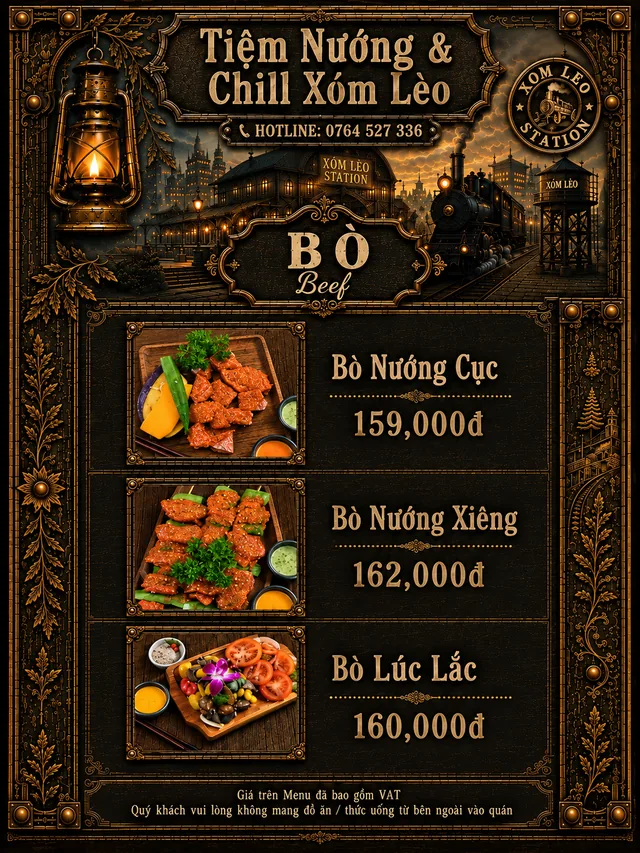
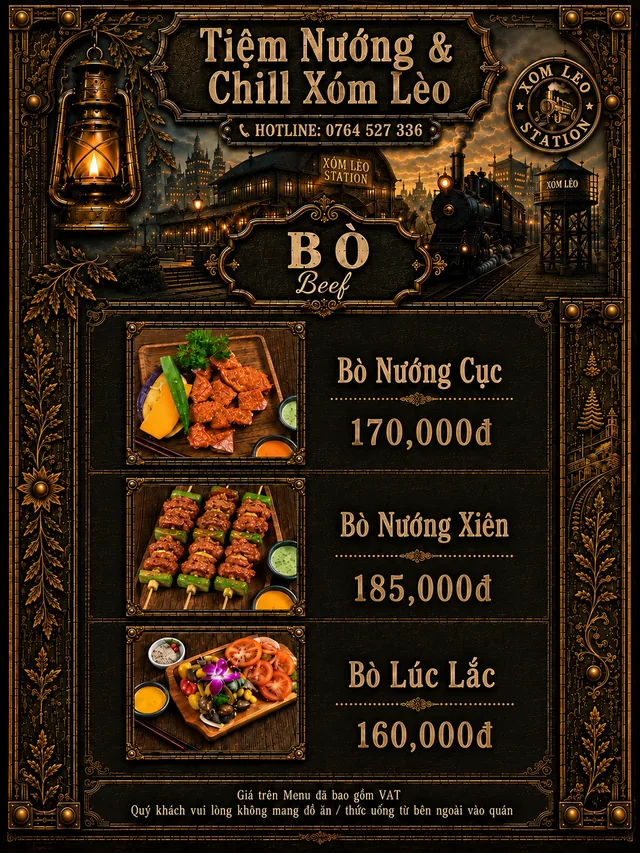
Anh menu trang Bo phan 2: gia moi + sua chinh ta "xieng" -> "xien"
Nguon: E:\anh-chill-xom-leo\02-bo-nuong-xien-luc-lac-quan-nuong-da-lat-xom-leo.png

Doi tren anh:
- Bo Nuong Cuc  159.000d -> 170.000d
- Bo Nuong Xieng 162.000d -> Bo Nuong Xien 185.000d (doi ca anh mon)
- Bo Luc Lac 160.000d giu nguyen

Cap nhat theo anh, neu khong text va anh se noi hai gia khac nhau:
- alt cua ca 2 cho dung anh 02 o /menu/ va /menu-en/ (khoi lat trang + khoi
  <noscript>, la phan duy nhat GPTBot/PerplexityBot doc duoc)
- dong "Bo nuong (Kobe, Okachi, ba chi, xieng, luc lac)" trong bang gia chu

Khoang gia trong bang khong doi: 185.000d van nam trong 137.000d - 229.000d.

17 anh menu con lai da doi chieu tung pixel voi ban dang chay, chi lech
o muc nhieu nen (MAE 3.0-4.5) nen giu nguyen, khong nen lai.
Nen webp cung tham so bo cu: ban lon q90/effort6 (khop byte-for-byte khi
kiem thu tren anh 01), ban -sm resize 640 q82/effort6.

diff --git a/menu/index.html b/menu/index.html
@@ -1018,7 +1018,7 @@
         <ol class="fb-src" data-fb-src hidden>
           <li data-img="00-menu-quan-nuong-da-lat-xom-leo" data-sec="Bìa" data-alt="Trang bìa menu Tiệm Nướng &amp; Chill Xóm Lèo – Xóm Lèo Station Đà Lạt 1922"></li>
           <li data-img="01-bo-nuong-tang-kobe-quan-nuong-da-lat-xom-leo" data-sec="Bò" data-alt="Trang menu bò: bò Kobe nướng tảng phô mai trứng muối 209.000đ, bò Okachi nướng tảng phô mai trứng muối 229.000đ, ba chỉ bò nướng muối tiêu 155.000đ, ba chỉ bò cuộn nấm kim châm 137.000đ"></li>
-          <li data-img="02-bo-nuong-xien-luc-lac-quan-nuong-da-lat-xom-leo" data-sec="Bò" data-alt="Trang menu bò: bò nướng cục 159.000đ, bò nướng xiêng 162.000đ, bò lúc lắc 160.000đ"></li>
+          <li data-img="02-bo-nuong-xien-luc-lac-quan-nuong-da-lat-xom-leo" data-sec="Bò" data-alt="Trang menu bò: bò nướng cục 170.000đ, bò nướng xiên 185.000đ, bò lúc lắc 160.000đ"></li>
           <li data-img="03-ba-chi-heo-suon-cay-quan-nuong-da-lat-xom-leo" data-sec="Heo" data-alt="Trang menu heo: sườn cay Thái Lan 259.000đ, ba chỉ heo nướng ngũ vị 132.000đ, ba chỉ heo Hàn Quốc 169.000đ"></li>
           <li data-img="04-hai-san-nuong-ca-tam-quan-nuong-da-lat-xom-leo" data-sec="Hải sản" data-alt="Trang menu hải sản: ốc nhồi thịt 165.000đ, cá tầm lúc lắc 165.000đ, cá tầm rang muối 199.000đ, tôm chiên trứng muối 158.000đ"></li>
           <li data-img="05-tom-bach-tuoc-nuong-quan-nuong-da-lat-xom-leo" data-sec="Hải sản" data-alt="Trang menu hải sản nướng: cá tầm nướng 161.000đ, tôm nướng muối ớt 150.000đ, bạch tuộc nướng muối ớt 155.000đ"></li>
@@ -1045,7 +1045,7 @@
           <ol class="fb-fallback">
             <li><img src="../img/menu-pages/00-menu-quan-nuong-da-lat-xom-leo-sm.webp" width="1086" height="1448" alt="Trang bìa menu Tiệm Nướng &amp; Chill Xóm Lèo – Xóm Lèo Station Đà Lạt 1922"></li>
             <li><img src="../img/menu-pages/01-bo-nuong-tang-kobe-quan-nuong-da-lat-xom-leo-sm.webp" width="1086" height="1448" alt="Trang menu bò: bò Kobe nướng tảng phô mai trứng muối 209.000đ, bò Okachi nướng tảng phô mai trứng muối 229.000đ, ba chỉ bò nướng muối tiêu 155.000đ, ba chỉ bò cuộn nấm kim châm 137.000đ"></li>
-            <li><img src="../img/menu-pages/02-bo-nuong-xien-luc-lac-quan-nuong-da-lat-xom-leo-sm.webp" width="1086" height="1448" alt="Trang menu bò: bò nướng cục 159.000đ, bò nướng xiêng 162.000đ, bò lúc lắc 160.000đ"></li>
+            <li><img src="../img/menu-pages/02-bo-nuong-xien-luc-lac-quan-nuong-da-lat-xom-leo-sm.webp" width="1086" height="1448" alt="Trang menu bò: bò nướng cục 170.000đ, bò nướng xiên 185.000đ, bò lúc lắc 160.000đ"></li>
             <li><img src="../img/menu-pages/03-ba-chi-heo-suon-cay-quan-nuong-da-lat-xom-leo-sm.webp" width="1086" height="1448" alt="Trang menu heo: sườn cay Thái Lan 259.000đ, ba chỉ heo nướng ngũ vị 132.000đ, ba chỉ heo Hàn Quốc 169.000đ"></li>
             <li><img src="../img/menu-pages/04-hai-san-nuong-ca-tam-quan-nuong-da-lat-xom-leo-sm.webp" width="1086" height="1448" alt="Trang menu hải sản: ốc nhồi thịt 165.000đ, cá tầm lúc lắc 165.000đ, cá tầm rang muối 199.000đ, tôm chiên trứng muối 158.000đ"></li>
             <li><img src="../img/menu-pages/05-tom-bach-tuoc-nuong-quan-nuong-da-lat-xom-leo-sm.webp" width="1086" height="1448" alt="Trang menu hải sản nướng: cá tầm nướng 161.000đ, tôm nướng muối ớt 150.000đ, bạch tuộc nướng muối ớt 155.000đ"></li>
@@ -1076,7 +1076,7 @@
             <table>
               <thead><tr><th>Nhóm món</th><th>Số món</th><th>Khoảng giá</th></tr></thead>
               <tbody>
-                <tr><td>Bò nướng (Kobe, Okachi, ba chỉ, xiêng, lúc lắc)</td><td>7</td><td>137.000đ – 229.000đ</td></tr>
+                <tr><td>Bò nướng (Kobe, Okachi, ba chỉ, xiên, lúc lắc)</td><td>7</td><td>137.000đ – 229.000đ</td></tr>
                 <tr><td>Heo nướng (sườn cay Thái, ba chỉ ngũ vị, ba chỉ Hàn Quốc)</td><td>3</td><td>132.000đ – 259.000đ</td></tr>
                 <tr><td>Hải sản (ốc nhồi thịt, cá tầm, tôm, bạch tuộc)</td><td>7</td><td>150.000đ – 199.000đ</td></tr>
                 <tr><td>Món ăn kèm (chả ram tôm đất, khoai, salad)</td><td>4</td><td>70.000đ – 95.000đ</td></tr>

diff --git a/menu-en/index.html b/menu-en/index.html
@@ -1015,7 +1015,7 @@
         <ol class="fb-src" data-fb-src hidden>
           <li data-img="00-menu-quan-nuong-da-lat-xom-leo" data-sec="Cover" data-alt="Cover of the Tiem Nuong &amp; Chill Xom Leo menu – Xom Leo Station Da Lat 1922"></li>
           <li data-img="01-bo-nuong-tang-kobe-quan-nuong-da-lat-xom-leo" data-sec="Beef" data-alt="Beef menu page: Kobe beef slab with cheese and salted egg 209,000d, Okachi beef slab with cheese and salted egg 229,000d, grilled beef belly with salt and pepper 155,000d, beef belly rolled with enoki mushroom 137,000d"></li>
-          <li data-img="02-bo-nuong-xien-luc-lac-quan-nuong-da-lat-xom-leo" data-sec="Beef" data-alt="Beef menu page: grilled beef cubes 159,000d, grilled beef skewers 162,000d, shaking beef 160,000d"></li>
+          <li data-img="02-bo-nuong-xien-luc-lac-quan-nuong-da-lat-xom-leo" data-sec="Beef" data-alt="Beef menu page: grilled beef cubes 170,000d, grilled beef skewers 185,000d, shaking beef 160,000d"></li>
           <li data-img="03-ba-chi-heo-suon-cay-quan-nuong-da-lat-xom-leo" data-sec="Pork" data-alt="Pork menu page: Thai spicy ribs 259,000d, five-spice grilled pork belly 132,000d, Korean-style pork belly 169,000d"></li>
           <li data-img="04-hai-san-nuong-ca-tam-quan-nuong-da-lat-xom-leo" data-sec="Seafood" data-alt="Seafood menu page: snails stuffed with pork 165,000d, shaking sturgeon 165,000d, salt-roasted sturgeon 199,000d, shrimp fried with salted egg 158,000d"></li>
           <li data-img="05-tom-bach-tuoc-nuong-quan-nuong-da-lat-xom-leo" data-sec="Seafood" data-alt="Grilled seafood menu page: grilled sturgeon 161,000d, grilled shrimp with chilli salt 150,000d, grilled octopus with chilli salt 155,000d"></li>
@@ -1042,7 +1042,7 @@
           <ol class="fb-fallback">
             <li><img src="../img/menu-pages/00-menu-quan-nuong-da-lat-xom-leo-sm.webp" width="1086" height="1448" alt="Cover of the Tiem Nuong &amp; Chill Xom Leo menu – Xom Leo Station Da Lat 1922"></li>
             <li><img src="../img/menu-pages/01-bo-nuong-tang-kobe-quan-nuong-da-lat-xom-leo-sm.webp" width="1086" height="1448" alt="Beef menu page: Kobe beef slab with cheese and salted egg 209,000d, Okachi beef slab with cheese and salted egg 229,000d, grilled beef belly with salt and pepper 155,000d, beef belly rolled with enoki mushroom 137,000d"></li>
-            <li><img src="../img/menu-pages/02-bo-nuong-xien-luc-lac-quan-nuong-da-lat-xom-leo-sm.webp" width="1086" height="1448" alt="Beef menu page: grilled beef cubes 159,000d, grilled beef skewers 162,000d, shaking beef 160,000d"></li>
+            <li><img src="../img/menu-pages/02-bo-nuong-xien-luc-lac-quan-nuong-da-lat-xom-leo-sm.webp" width="1086" height="1448" alt="Beef menu page: grilled beef cubes 170,000d, grilled beef skewers 185,000d, shaking beef 160,000d"></li>
             <li><img src="../img/menu-pages/03-ba-chi-heo-suon-cay-quan-nuong-da-lat-xom-leo-sm.webp" width="1086" height="1448" alt="Pork menu page: Thai spicy ribs 259,000d, five-spice grilled pork belly 132,000d, Korean-style pork belly 169,000d"></li>
             <li><img src="../img/menu-pages/04-hai-san-nuong-ca-tam-quan-nuong-da-lat-xom-leo-sm.webp" width="1086" height="1448" alt="Seafood menu page: snails stuffed with pork 165,000d, shaking sturgeon 165,000d, salt-roasted sturgeon 199,000d, shrimp fried with salted egg 158,000d"></li>
             <li><img src="../img/menu-pages/05-tom-bach-tuoc-nuong-quan-nuong-da-lat-xom-leo-sm.webp" width="1086" height="1448" alt="Grilled seafood menu page: grilled sturgeon 161,000d, grilled shrimp with chilli salt 150,000d, grilled octopus with chilli salt 155,000d"></li>
